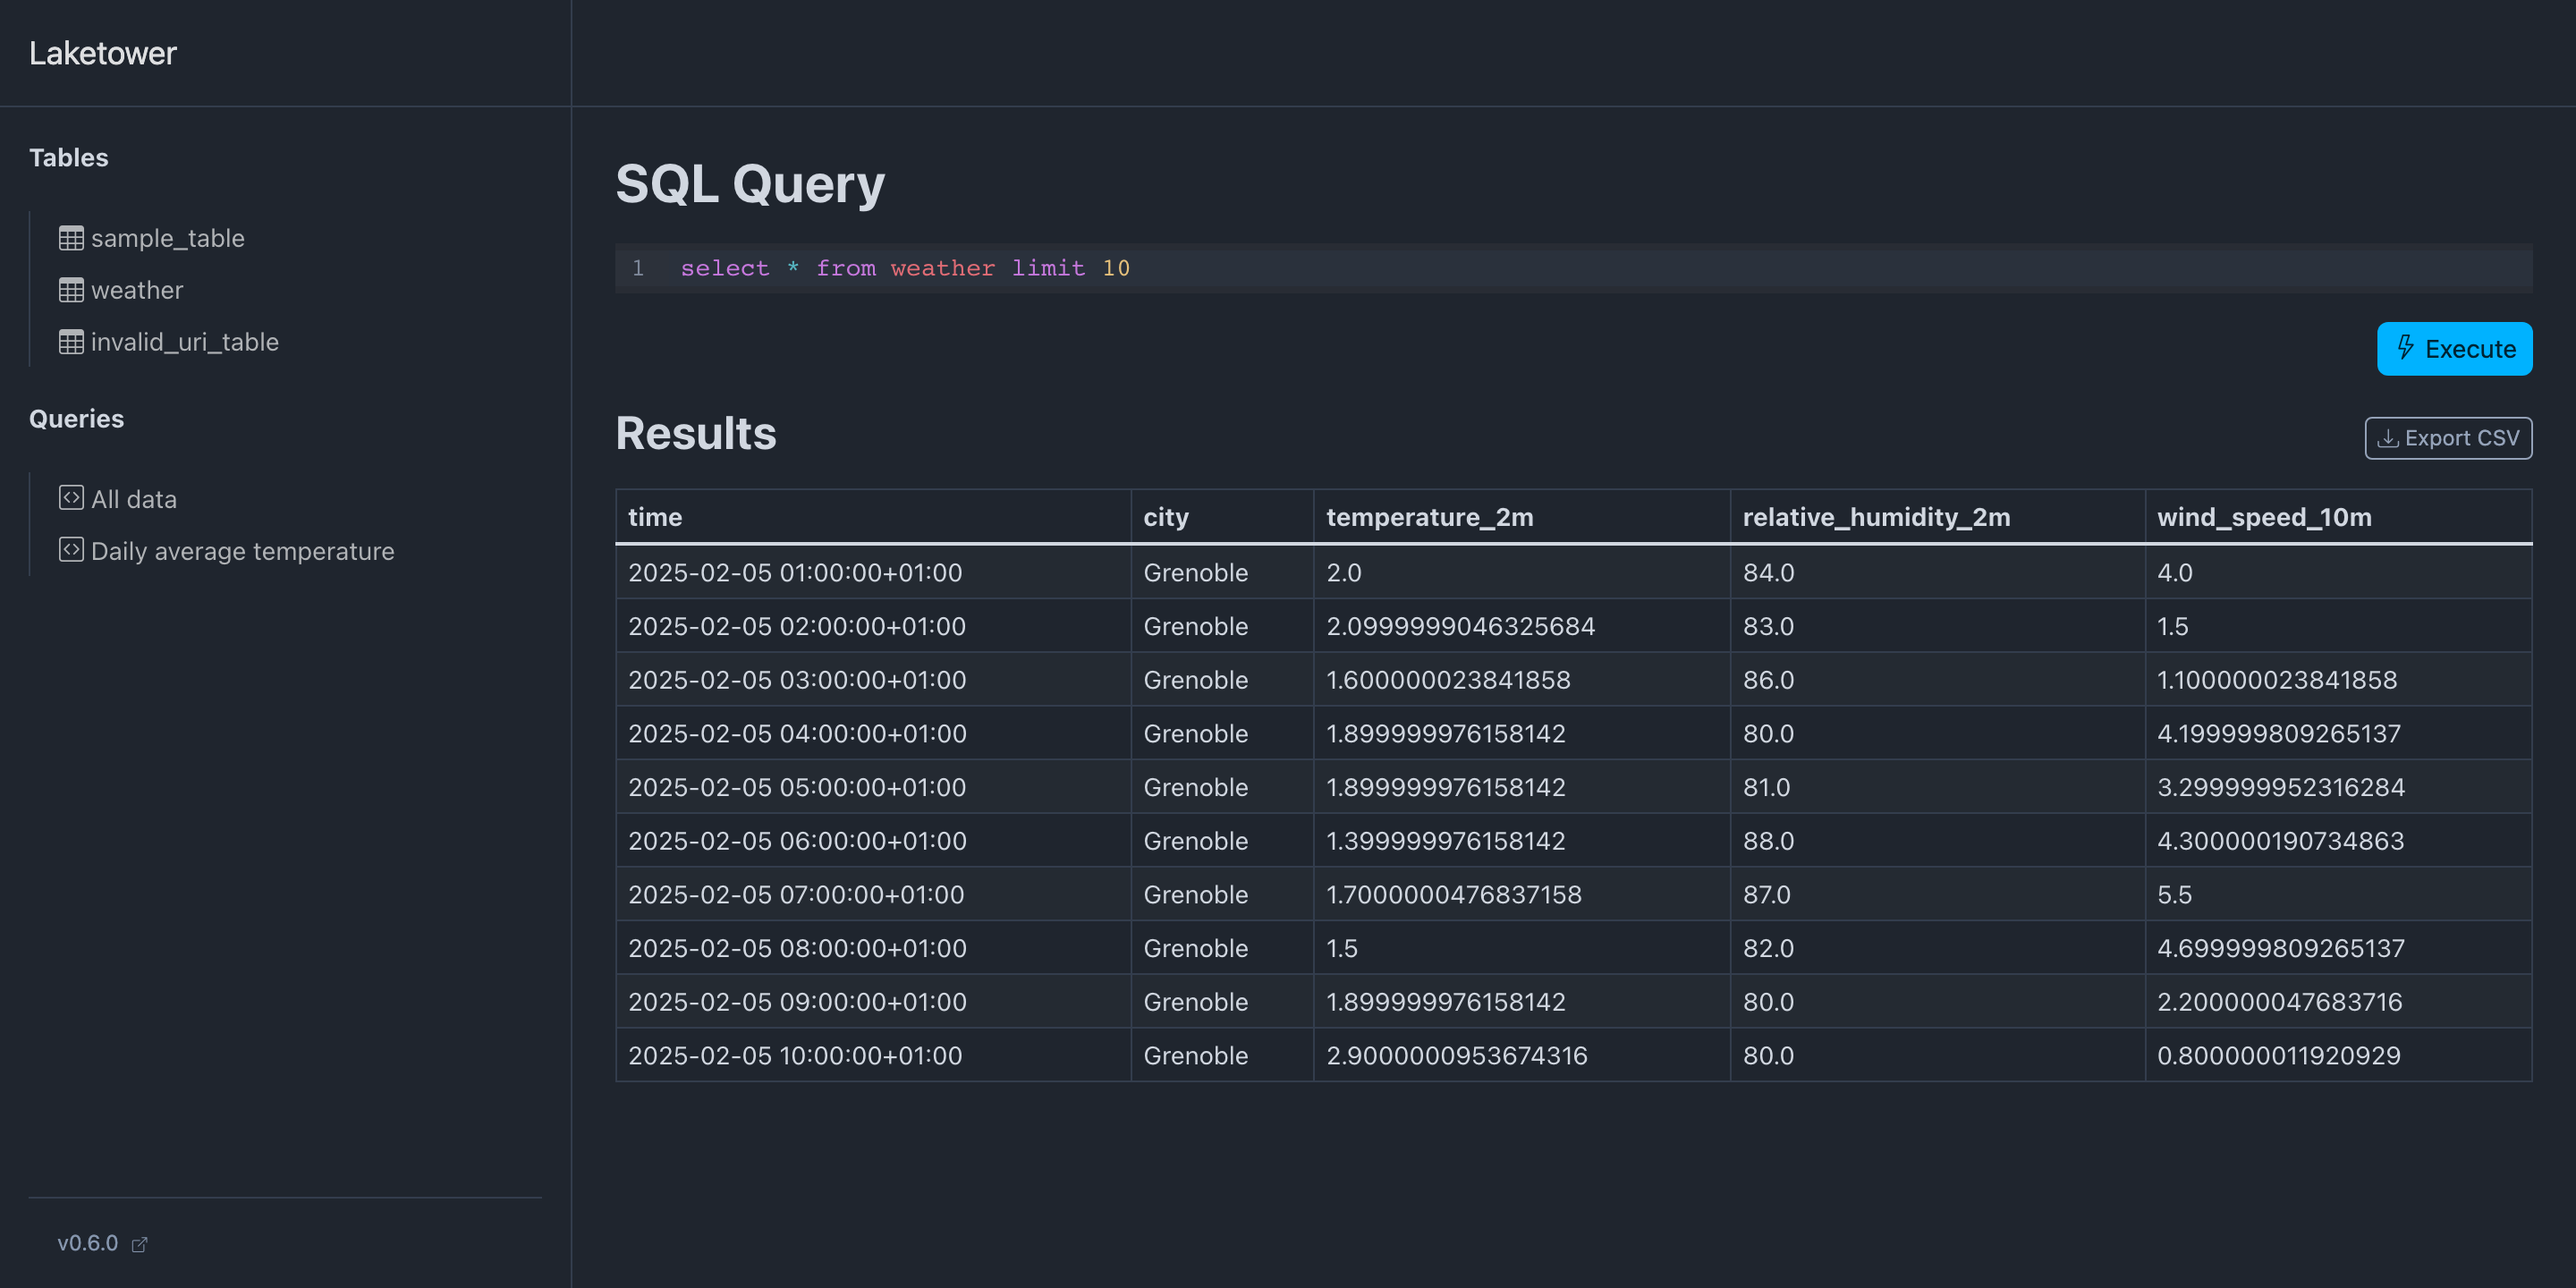
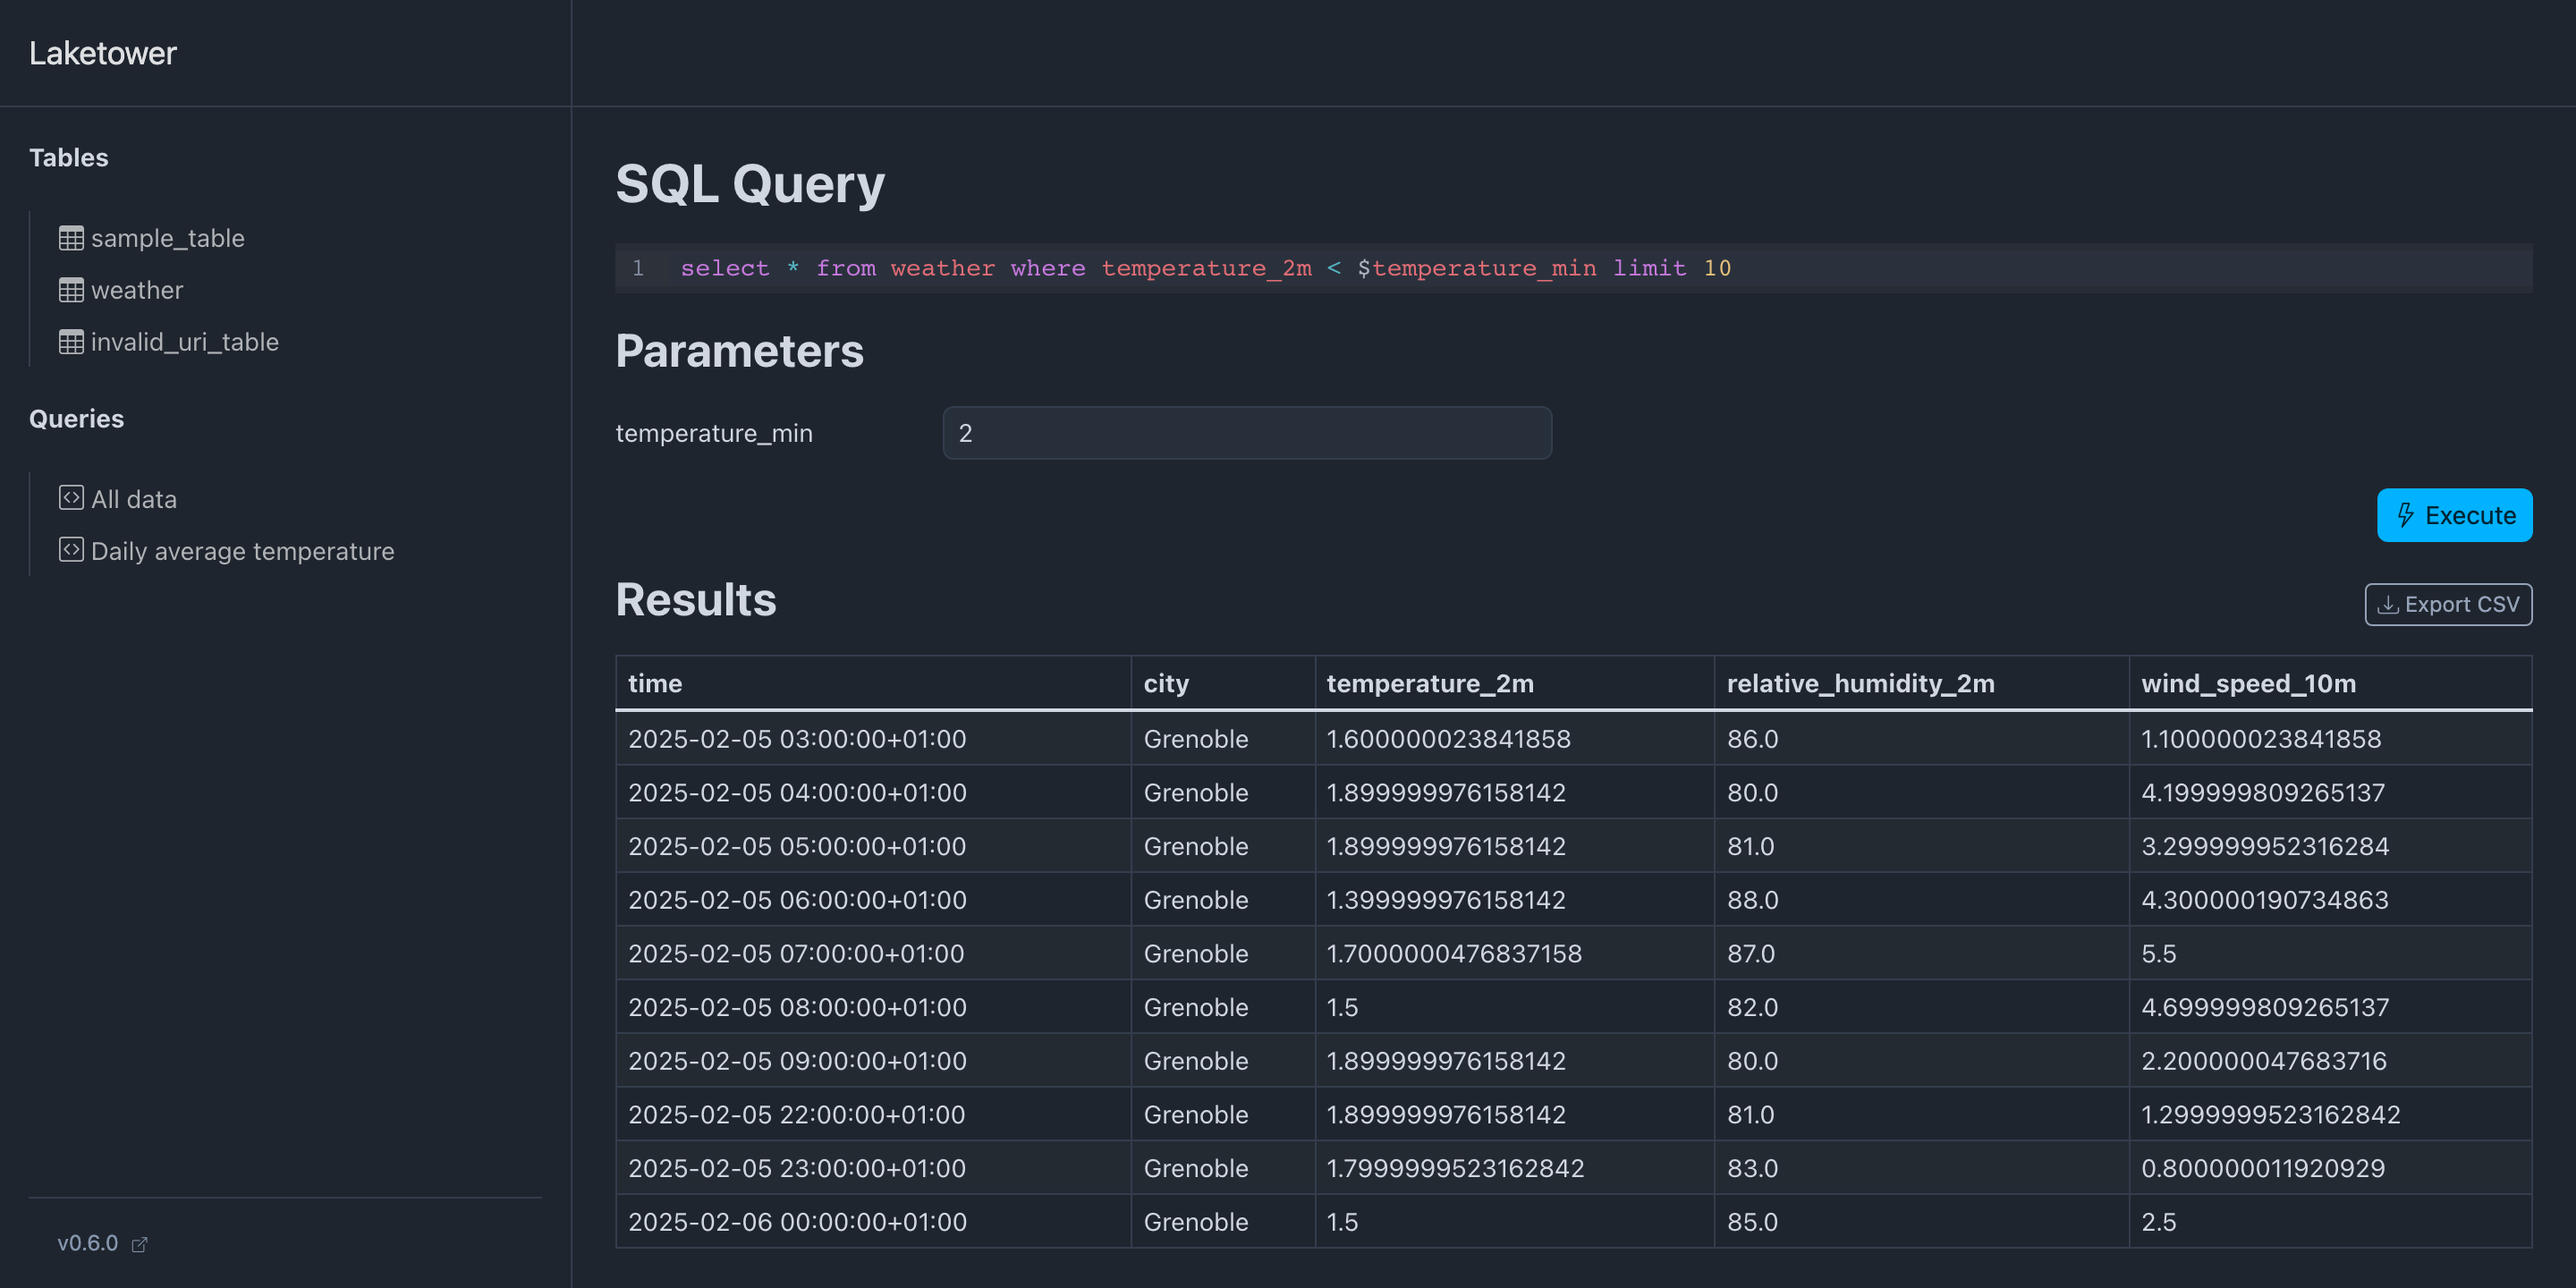
feat(web): add support for tables query parameters

diff --git a/laketower/templates/tables/query.html b/laketower/templates/tables/query.html
@@ -11,6 +11,18 @@
         <textarea id="sql-editor" name="sql" rows="5" class="form-control">{{ sql_query }}</textarea>
       </div>
 
+      {% if sql_params|length %}
+      <h3 class="mb-3">Parameters</h3>
+      {% for param_name, param_value in sql_params.items() %}
+      <div class="row mb-3">
+        <label for="param-{{ param_name }}" class="col-form-label col-sm-2">{{ param_name }}</label>
+        <div class="col-sm-4">
+          <input id="param-{{ param_name }}" class="form-control" name="{{ param_name }}" value="{{ param_value }}">
+        </div>
+      </div>
+      {% endfor %}
+      {% endif %}
+
       <div class="mb-3">
         <div class="d-flex justify-content-end">
           <button type="submit" class="btn btn-primary">

diff --git a/laketower/tables.py b/laketower/tables.py
@@ -229,6 +229,17 @@ def load_datasets(table_configs: list[ConfigTable]) -> dict[str, padataset.Datas
     return tables_dataset
 
 
+def extract_query_parameter_names(sql: str) -> set[str]:
+    parsed_sql = sqlglot.parse(sql, dialect=sqlglot.dialects.duckdb.DuckDB)
+    return {
+        str(node.this)
+        for statement in parsed_sql
+        if statement is not None
+        for node in statement.walk()
+        if isinstance(node, sqlglot.expressions.Placeholder)
+    }
+
+
 def generate_table_query(
     table_name: str,
     limit: int | None = None,
@@ -260,7 +271,9 @@ def generate_table_statistics_query(table_name: str) -> str:
 
 
 def execute_query(
-    tables_datasets: dict[str, padataset.Dataset], sql_query: str
+    tables_datasets: dict[str, padataset.Dataset],
+    sql_query: str,
+    sql_params: dict[str, str] = {},
 ) -> pd.DataFrame:
     if not sql_query:
         raise ValueError("Error: Cannot execute empty SQL query")
@@ -276,7 +289,7 @@ def execute_query(
             view_name = f"{table_name}_view"
             conn.register(view_name, table_dataset)
             conn.execute(f'create table "{table_name}" as select * from "{view_name}"')  # nosec B608
-        return conn.execute(sql_query).df()
+        return conn.execute(sql_query, parameters=sql_params).df()
     except duckdb.Error as e:
         raise ValueError(str(e)) from e
 

diff --git a/tests/test_web.py b/tests/test_web.py
@@ -422,6 +422,34 @@ def test_tables_query(
     assert not all(str(row) in all_td for row in df[selected_column][selected_limit:])
 
 
+@pytest.mark.parametrize(
+    ("start_date", "end_date"),
+    [("", ""), ("2025-01-01", ""), ("", "2025-01-31"), ("2025-01-01", "2025-01-31")],
+)
+def test_tables_query_parameters(
+    client: TestClient,
+    sample_config: dict[str, Any],
+    start_date: str,
+    end_date: str,
+) -> None:
+    sql_query = f"select * from {sample_config['tables'][0]['name']} where day between $start_date and $end_date"
+
+    response = client.get(
+        "/tables/query",
+        params={"sql": sql_query, "start_date": start_date, "end_date": end_date},
+    )
+    assert response.status_code == HTTPStatus.OK
+
+    html = response.content.decode()
+    soup = BeautifulSoup(html, "html.parser")
+
+    assert soup.find("h3", string="Parameters")
+    assert soup.find("label", string="start_date")
+    assert soup.find("input", attrs={"name": "start_date", "value": start_date})
+    assert soup.find("label", string="end_date")
+    assert soup.find("input", attrs={"name": "end_date", "value": end_date})
+
+
 def test_tables_query_invalid(
     client: TestClient, delta_table: deltalake.DeltaTable
 ) -> None:

diff --git a/laketower/web.py b/laketower/web.py
@@ -16,6 +16,7 @@ from laketower.tables import (
     ImportFileFormatEnum,
     ImportModeEnum,
     execute_query,
+    extract_query_parameter_names,
     generate_table_statistics_query,
     generate_table_query,
     import_file_to_table,
@@ -75,9 +76,13 @@ def get_tables_query(request: Request, sql: str) -> HTMLResponse:
         table_name: dataset.schema.names
         for table_name, dataset in tables_dataset.items()
     }
+    sql_param_names = extract_query_parameter_names(sql)
+    sql_params = {
+        name: request.query_params.get(name) or "" for name in sql_param_names
+    }
 
     try:
-        results = execute_query(tables_dataset, sql)
+        results = execute_query(tables_dataset, sql, sql_params=sql_params)
         error = None
     except ValueError as e:
         error = {"message": str(e)}
@@ -93,6 +98,7 @@ def get_tables_query(request: Request, sql: str) -> HTMLResponse:
             "table_results": results,
             "sql_query": sql,
             "sql_schema": sql_schema,
+            "sql_params": sql_params,
             "error": error,
         },
     )

diff --git a/tests/test_tables.py b/tests/test_tables.py
@@ -48,6 +48,19 @@ def test_load_table_deltatable_adls(
 
 
 @pytest.mark.parametrize(
+    ("sql", "names"),
+    [
+        ("select * from table", set()),
+        ("select * from table where col = $val", {"val"}),
+        ("select * from table where col1 = $val1 and col2 = $val2", {"val1", "val2"}),
+    ],
+)
+def test_extract_query_parameter_names(sql: str, names: set[str]) -> None:
+    param_names = tables.extract_query_parameter_names(sql)
+    assert param_names == names
+
+
+@pytest.mark.parametrize(
     ["table_name", "limit", "cols", "sort_asc", "sort_desc", "expected_query"],
     [
         ("test_table", None, None, None, None, 'SELECT * FROM "test_table" LIMIT 10'),

diff --git a/tasks.py b/tasks.py
@@ -76,7 +76,7 @@ def shots(ctx: Context) -> None:
             "output": screenshots_path / "tables_history.png",
         },
         {
-            "url": f"{server_url}/tables/query?sql=select * from weather limit 10",
+            "url": f"{server_url}/tables/query?sql=select * from weather where temperature_2m < $temperature_min limit 10&temperature_min=2",
             "output": screenshots_path / "tables_query.png",
         },
         {

diff --git a/CHANGELOG.md b/CHANGELOG.md
@@ -9,6 +9,7 @@ and this project adheres to [Semantic Versioning](https://semver.org/spec/v2.0.0
 ### Added
 - web: display app version in sidebar
 - web: use CodeMirror SQL query editor
+- web: add support for tables query parameters
 
 ### Fixed
 - handle empty SQL queries
